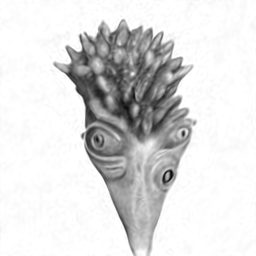
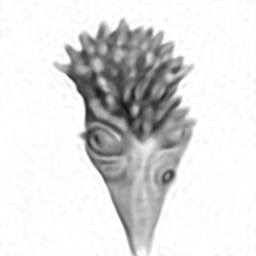
Sin layer and SIREN for images

diff --git a/modules/neuralCore/nn_test.cpp b/modules/neuralCore/nn_test.cpp
@@ -407,7 +407,51 @@ using namespace nn;
     NeuralNetwork2 nn2;
     nn2.add_layer(std::make_shared<DenseLayer2>(dim, 64), NeuralNetwork2::HE);
     nn2.add_layer(std::make_shared<DenseLayer2>(64, 1), NeuralNetwork2::HE);
-    nn2.train(X, res, 256, 400, NeuralNetwork2::Adam, NeuralNetwork2::MSE, 0.01f);
+    nn2.train(X, res, 512, 500, NeuralNetwork2::Adam, NeuralNetwork2::MSE, 0.01f);
+  }
+
+  void test_10_SIREN_image_2_train()
+  {
+    std::vector<float> image_data, pixel_data, image_data_grayscale;
+    TensorView view = read_image_rgb("1a.png", image_data);
+    IndexType pixel_count = view.size(1)*view.size(2);
+    pixel_data.resize(2*pixel_count, 0);
+    image_data_grayscale.resize(pixel_count, 0);
+    for (IndexType i=0;i<view.size(2);i++)
+    {
+      for (IndexType j=0;j<view.size(1);j++)
+      {
+        pixel_data[2*(i*view.size(1) + j) + 0] = 2*(float)j/view.size(1)-1;
+        pixel_data[2*(i*view.size(1) + j) + 1] = 2*(float)i/view.size(2)-1;
+        image_data_grayscale[i*view.size(1) + j] = 0.2126 * view.get(0,j,i)+ 0.7152 * view.get(1,j,i) + 0.0722 * view.get(2,j,i);
+        image_data_grayscale[i*view.size(1) + j] = 2*(image_data_grayscale[i*view.size(1) + j]) - 1;
+      }
+    }
+
+    NeuralNetwork2 nn2;
+    nn2.add_layer(std::make_shared<DenseLayer2>( 2, 64), NeuralNetwork2::SIREN);
+    nn2.add_layer(std::make_shared<SinLayer2>());
+    nn2.add_layer(std::make_shared<DenseLayer2>(64, 64), NeuralNetwork2::SIREN);
+    nn2.add_layer(std::make_shared<SinLayer2>());
+    nn2.add_layer(std::make_shared<DenseLayer2>(64, 64), NeuralNetwork2::SIREN);
+    nn2.add_layer(std::make_shared<SinLayer2>());
+    nn2.add_layer(std::make_shared<DenseLayer2>(64,  1), NeuralNetwork2::SIREN);
+    nn2.train(pixel_data, image_data_grayscale, 1000, 2500, NeuralNetwork2::Adam, NeuralNetwork2::MSE, 0.0001f);
+    nn2.evaluate(pixel_data, image_data_grayscale);
+
+    for (float &val : image_data_grayscale)
+      val = 0.5*(val+1);
+    for (IndexType i=0;i<view.size(2);i++)
+    {
+      for (IndexType j=0;j<view.size(1);j++)
+      {
+        view.get(0,j,i) = image_data_grayscale[i*view.size(1)+j];
+        view.get(1,j,i) = image_data_grayscale[i*view.size(1)+j];
+        view.get(2,j,i) = image_data_grayscale[i*view.size(1)+j];
+      }
+    }
+
+    write_image_rgb("res.png", view);
   }
 
   int main(int argc, char **argv)
@@ -421,6 +465,7 @@ using namespace nn;
     test_7_linear_regression_2();
     test_8_aliases();
     test_9_linear_regression_2_train();
+    test_10_SIREN_image_2_train();
     //std::vector<float> data;
     //TensorView view = read_image_rgb("empty_64.png", data);
     //printf("%d %d %d %d\n", view.Dim, view.size(0), view.size(1), view.size(2));

diff --git a/modules/neuralCore/neural_network_2.cpp b/modules/neuralCore/neural_network_2.cpp
@@ -74,25 +74,23 @@ namespace nn
 
   bool NeuralNetwork2::check_validity()
   {
+    if (layers[0]->input_shape.empty() || layers[0]->output_shape.empty())
+    {
+      printf("NeuralNetwork: first layer must have implicit shape!\n");
+      return false;
+    }
     for (int i = 1; i < layers.size(); i++)
     {
       // shape-insensitive layers
-      if (layers[i]->input_shape.empty() || layers[i - 1]->output_shape.empty())
-        ;
-      continue;
-
-      if (layers[i]->input_shape.size() != layers[i - 1]->output_shape.size())
+      if (layers[i]->input_shape.empty() && layers[i]->output_shape.empty())
+      {
+        layers[i]->input_shape = layers[i-1]->output_shape;
+        layers[i]->output_shape = layers[i-1]->output_shape;
+      }
+      else if (layers[i]->input_shape.size() != layers[i - 1]->output_shape.size())
       {
         printf("NeuralNetwork: layers %d and %d have incompatible shapes!\n", i - 1, i);
         return false;
-      }
-      for (int j = 0; j < layers[i]->input_shape.size(); j++)
-      {
-        if (layers[i]->input_shape[j] != layers[i - 1]->output_shape[j])
-        {
-          printf("NeuralNetwork: layers %d and %d have incompatible sizes!\n", i - 1, i);
-          return false;
-        }
       }
     }
     return true;
@@ -113,6 +111,9 @@ namespace nn
       unsigned fan_in = total_size(layers[i]->input_shape);
       unsigned fan_out = total_size(layers[i]->output_shape);
       unsigned size = layers[i]->parameters_count();
+
+      if (size == 0)
+        continue;
 
       switch (initializers[i])
       {

diff --git a/modules/neuralCore/neural_network_2.h b/modules/neuralCore/neural_network_2.h
@@ -36,6 +36,23 @@ namespace nn
     virtual TensorToken backward(const TensorToken &input, const TensorToken &output, const TensorToken &dLoss_dOutput) override;
   };
 
+  class SinLayer2 : public Layer2
+  {
+    float mult = 30.0f;
+  public:
+    SinLayer2(float _mult = 30.0f){ mult = _mult; }
+    virtual void init() { };
+    virtual int parameters_count() { return 0; }
+    virtual TensorToken forward(const TensorToken &input) override
+    {
+      return TensorToken::sin(input*mult);
+    }
+    virtual TensorToken backward(const TensorToken &input, const TensorToken &output, const TensorToken &dLoss_dOutput)
+    {
+      return dLoss_dOutput * TensorToken::cos(input*mult) * mult;
+    }
+  };
+
   class NeuralNetwork2
   {
   public:
